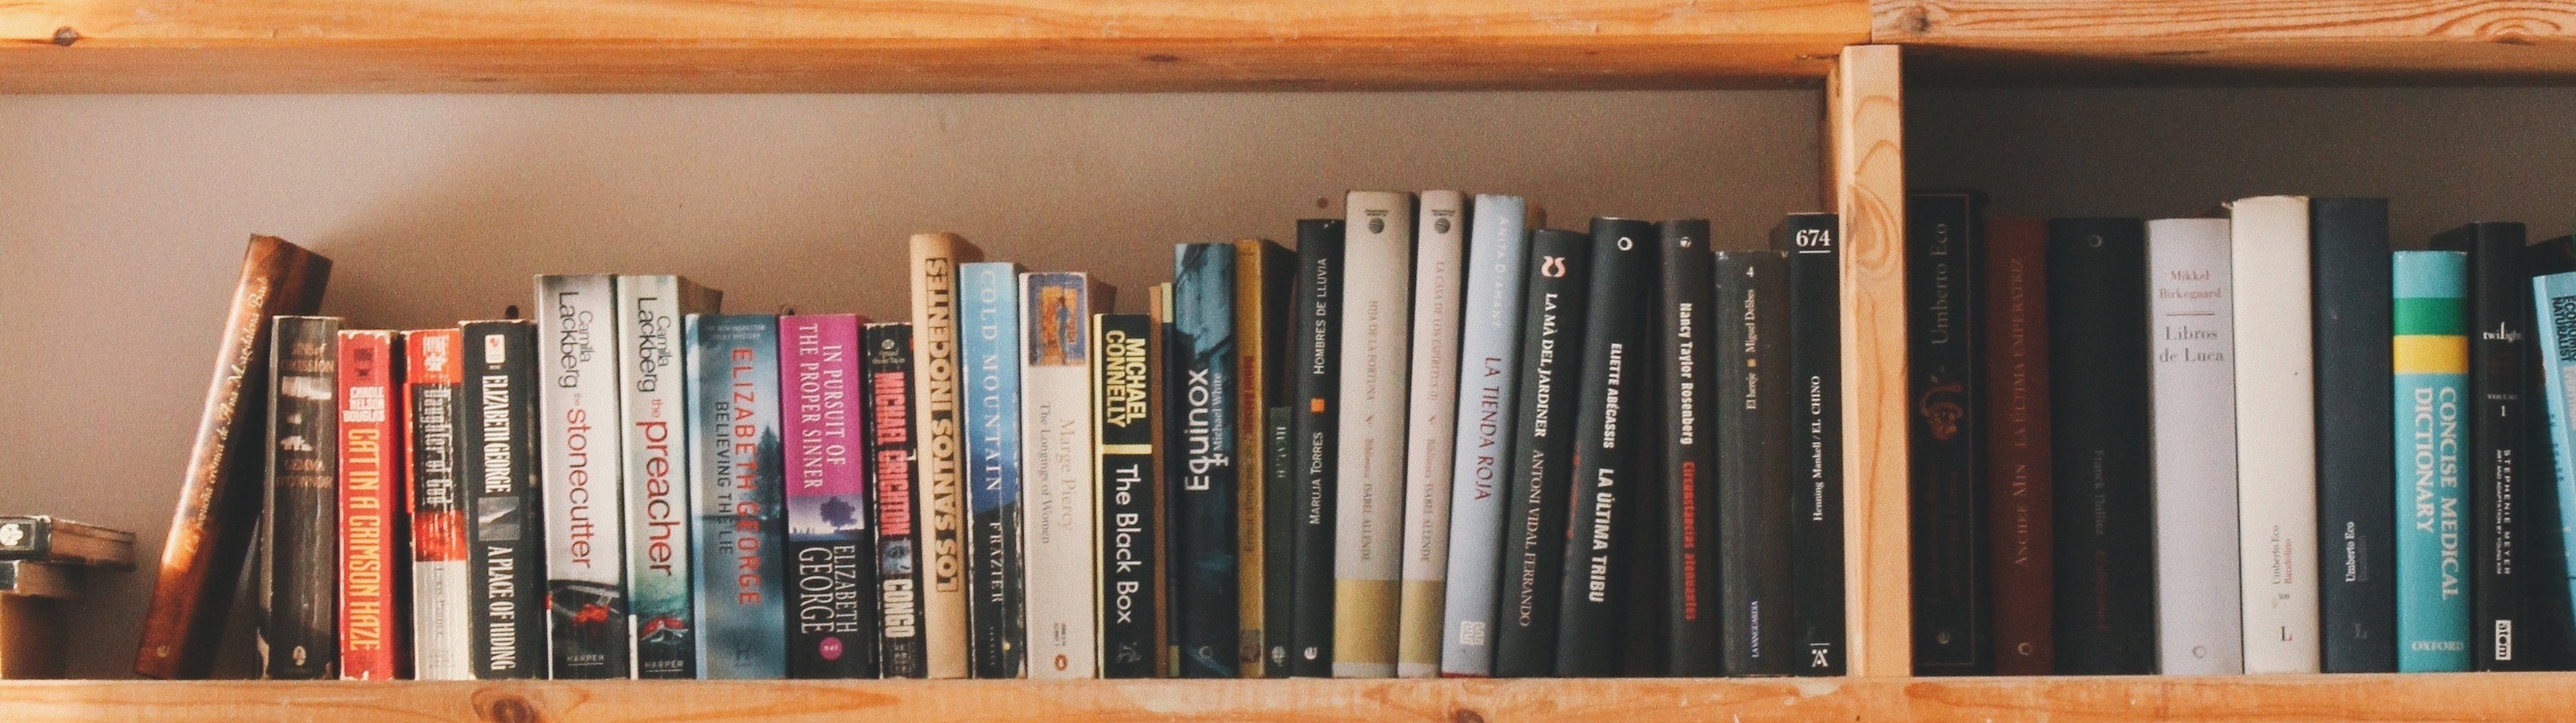
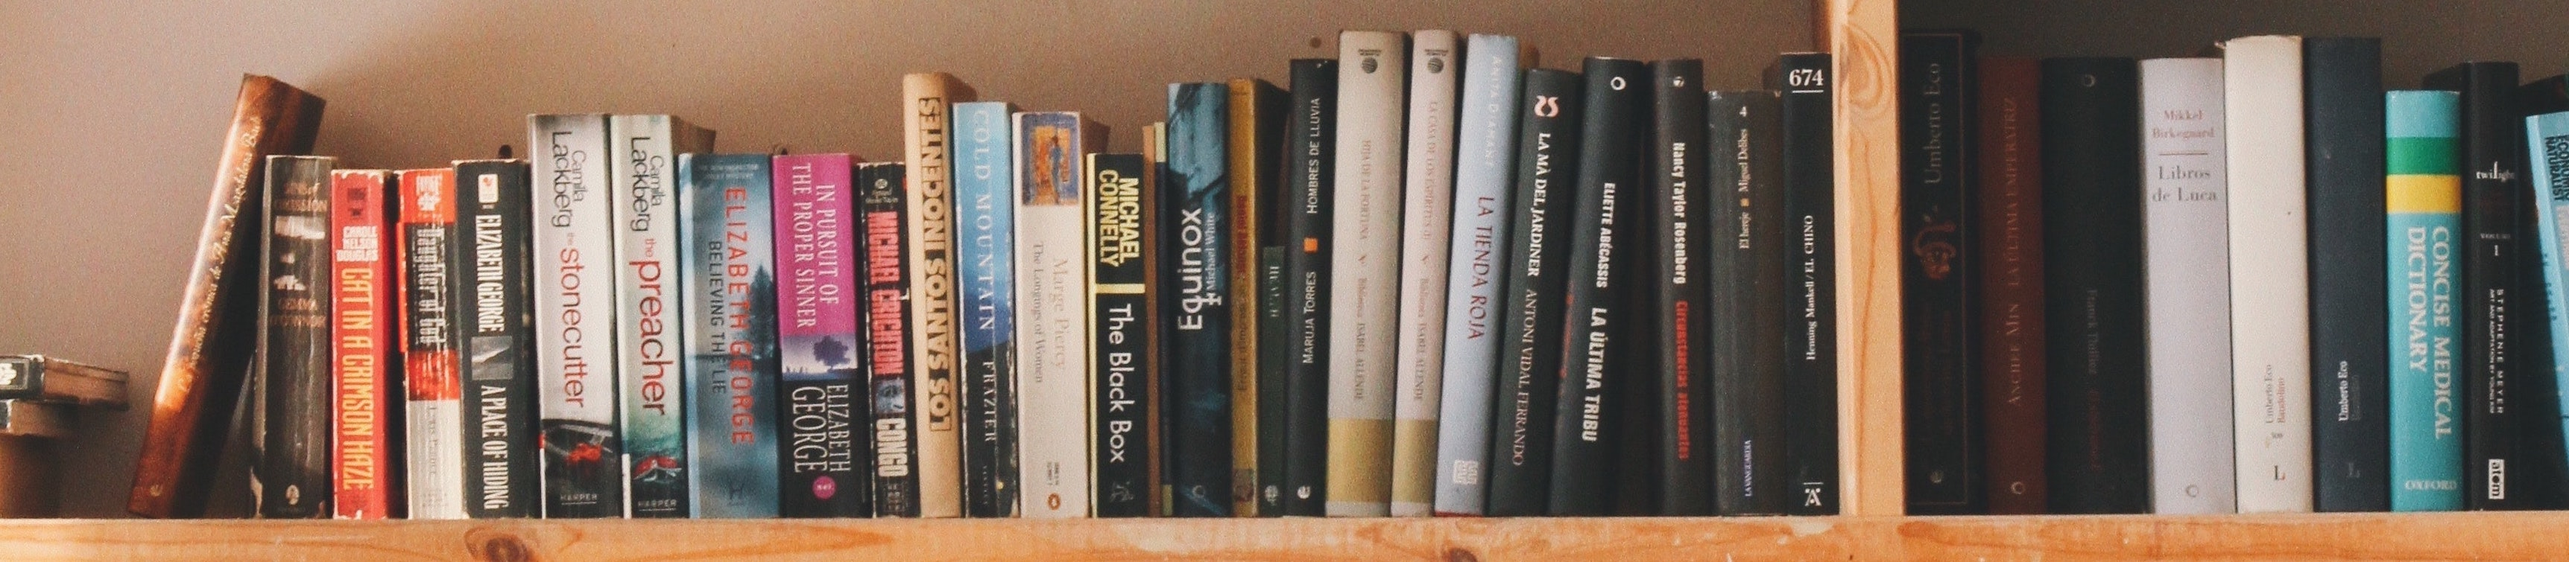
Commit prior to changing Git branches

diff --git a/src/components/Search/Search.js b/src/components/Search/Search.js
@@ -3,7 +3,7 @@ import PropTypes from 'prop-types'
 import './Search.css'
 import NavBar from '../NavBar/NavBar'
 import Modal from '../Modal/Modal'
-import banner from '../assets/images/search_banner.jpg'
+import banner from '../assets/images/books2.jpg'
 import Loading from '../assets/images/bookish_loading.png'
 
 const Search = ({ awardedBooks, searchByYear, showModal, handleModalState, bookDetails, isLoading, clearSearch, error }) => {
